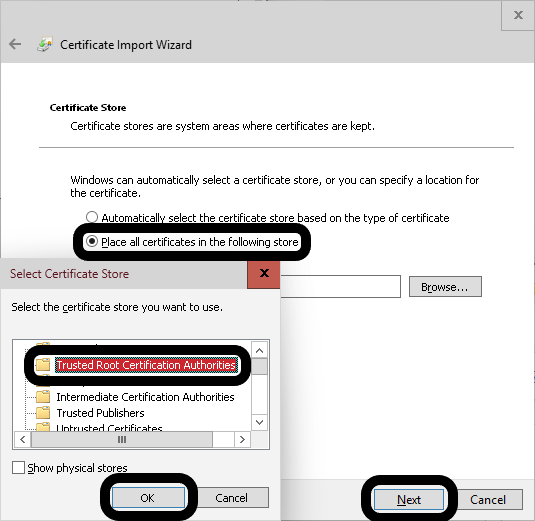
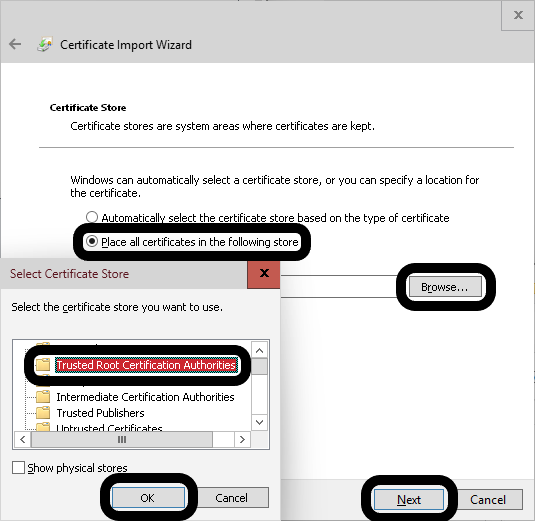
Update README.md.

Changed region(s): [[0.7178, 0.4914, 0.9271, 0.6142]]

diff --git a/README.md b/README.md
@@ -7,21 +7,19 @@
  <span>FSE App Launcher for Windows</span>
 </h1>
 <p align="center">
- <span align="center">A launchpad designed for Xbox full screen experience (FSE) in Windows 11. Resurrect the acclaimed tablet mode.</span>
+ <span align="center">Resurrect the acclaimed tablet mode in Windows 11—a launchpad designed for Xbox full screen experience (FSE).</span>
 </p>
+
 
 
 
 ## Highlights
 
-- Supports **setting it as home app** on devices compatible with the **FSE[^1]** feature (see "[System Requirements](#System Requirements)").
-- Launch **any** app (including non-game apps) **under FSE[^1]**, eliminating the need to switch back and forth between FSE[^1] and desktop. **Brings the experience closer to tablet mode in Windows 10**.
-- Quick access to **popular gaming platforms and missing desktop features[^2]**.
+- Inspired by the deprecated **tablet mode**. Supports **setting it as home app** on devices compatible with **Xbox FSE[^1]** (see "[System Requirements](#system-requirements)").
+- Launch **any** installed app, **not just games**. Eliminate the need to switch back and forth between Xbox FSE[^1] and desktop.
+- Quick access to **popular gaming platforms**[^2] and **missing desktop features**. You no longer have to switch to desktop just to **shut down** your device. (Remember the Windows 8 fiasco?)
 - **Native context menu** with suppport for "Run as administrator", "Open new window", "Open file location", "Uninstall", etc. A substitute to the all apps list of Start Menu.
-- Fix a major design flaw dating back to Windows 8 - **it has a power button!** But the Xbox app does not have that ;D
 - Native support for touch screen, high DPI, dark mode, and Mica.
-
-<a id="System Requirements"></a>
 
 ## System Requirements
 
@@ -29,12 +27,12 @@
 
 - Windows 11, version 21H2+
 
-#### Other requirements (if you intend to set it as home app of FSE[^1])
+#### Other requirements (if you intend to set it as home app of FSE)
+
+ℹ Only Full Edition supports setting as home app of FSE.
 
 - Windows 11, version 25H2+
 - The device is a gaming handheld
-
-Portable Edition does not support setting as home app of FSE[^1].
 
 ## Screenshots
 
@@ -43,12 +41,21 @@ Portable Edition does not support setting as home app of FSE[^1].
   <img src="./doc/images/readme/Screenshot_OpenSource.png" />
  </picture>
 </p>
-
 ## Installation and Configuration
+
+There are two editions of App Launcher: Full Edition and Portable Edition. Only Full Edition supports setting as home app of FSE.
 
 ### Full Edition
 
-#### 1. Download package from Github
+#### 1. Enable Developer Mode
+
+- Enable Developer Mode on the System › Advanced page in Settings.
+<p align="center">
+ <picture>
+  <img src="./doc/images/readme/EnableDeveloperMode_OpenSource.png" />
+ </picture>
+</p>
+#### 2. Download the package
 
 - Go to the [Releases](https://github.com/La-La-Chicken/FSEAppLauncher/releases/latest) page, download the archive of Full Edition below the Assets section.
 <p align="center">
@@ -59,9 +66,9 @@ Portable Edition does not support setting as home app of FSE[^1].
 
 - Extract the archive to any directory of your choice.
 
-#### 2. Install the developer certificate
+#### 3. Install the developer certificate
 
-- Right-click (or press and hold on) the security certificate file (*.cer), then select "Install Certificate".
+- Right-click (or press and hold on) the security certificate file (*.cer), then select "<u>I</u>nstall Certificate".
 <p align="center">
  <picture>
   <img src="./doc/images/readme/InstallCertificate_OpenSource_1.png" />
@@ -76,7 +83,8 @@ Portable Edition does not support setting as home app of FSE[^1].
 </p>
 
 - If the User Account Control dialog appears, click "Yes" to approve the request.
-- Select "<u>P</u>lace all certificates in the following store", and click "B<u>r</u>owse...". Select "Trusted Root Certification Authorities", click "OK", then click "<u>N</u>ext".
+- Select "<u>P</u>lace all certificates in the following store", and click "B<u>r</u>owse...".
+- Select "Trusted Root Certification Authorities", click "OK", then click "<u>N</u>ext".
 <p align="center">
  <picture>
   <img src="./doc/images/readme/InstallCertificate_OpenSource_3.png" />
@@ -90,34 +98,25 @@ Portable Edition does not support setting as home app of FSE[^1].
  </picture>
 </p>
 
-#### 3. Install the dependency
+#### 4. Install the dependency
 
 - Open the dependency "Microsoft.VCLibs.x64.14.00.Desktop.appx" and then click "Install".
 
-  ℹ If the installation fails and prompts "There's a newer version of this package already installed. To install this older package instead, uninstall the one currently on your system (0x80073D06)", it indicates that the dependency is **already installed**, and **you can directly install the application**.
+  ℹ If the installation fails and prompts "There's a newer version of this package already installed. To install this older package instead, uninstall the one currently on your system (0x80073D06)", it indicates that the dependency **has already been installed**, and **you can directly [install App Launcher](#5-install-app-launcher)**.
 <p align="center">
  <picture>
   <img src="./doc/images/readme/InstallDependency.AlreadyInstalled_OpenSource.png" />
  </picture>
 </p>
+#### 5. Install App Launcher
 
-#### 4. Enable Developer Mode
-
-- Enable Developer Mode in System Settings on the System → Advanced page.
-<p align="center">
- <picture>
-  <img src="./doc/images/readme/EnableDeveloperMode_OpenSource.png" />
- </picture>
-</p>
-
-#### 5. Install the application
-- Install the application by opening the MSIX package (FSEAppLauncher.FullEdition ... .msix) and then click "Install".
+- Open the MSIX package (FSEAppLauncher.FullEdition ... .msix) and then click "Install".
 
 #### 6. Configure the application as the home app[^3]
 
 - Open System Settings, click "Gaming", then click "Full screen experience".
 - Beside "Choose home app", select "App Launcher for Windows", and enable "Enter full screen experience on startup".
-- Optionally enable "Show accessibility control hints in Task View" based on your needs.
+ℹ It is also recommended to enable "Show accessibility control hints in Task View" to enhance the experience of game controllers.
 <p align="center">
  <picture>
   <img src="./doc/images/readme/ConfigureFSE_OpenSource.png" />
@@ -126,26 +125,25 @@ Portable Edition does not support setting as home app of FSE[^1].
 
 ### Portable Edition
 
+ℹ Portable Edition does not support setting as home app of FSE.
+
 - Go to the [Releases](https://github.com/La-La-Chicken/FSEAppLauncher/releases/latest) page, download Portable Edition (FSEAppLauncher.PortableEdition ... .exe) below the Assets section.
-- You can directly run the application without installation and configuration.
-
-Portable Edition does not support setting as home app of FSE[^1].
-
 <p align="center">
  <picture>
   <img src="./doc/images/readme/DownloadPortableEdition_OpenSource.png" />
  </picture>
 </p>
 
+- You can directly run the application without installation and configuration.
+
 ## What's new
 
 #### Current - Version 26.32.14370.0
 
-- Added the unpackaged Portable Edition (does not support setting as home app of FSE).
+- Added the unpackaged Portable Edition (without FSE home app support).
 - Added more buttons for quick access to popular game platforms and desktop features.
 - Replaced the Command Palette button with the Search button to provide a consistent experience with the desktop environment. On eligible devices, it launches Copilot or a user-specified AI app.
-- The App Launcher UI is no longer forced to be maximized, no longer topmost, and no longer minimized when losing focus.
-- Added touch-friendly resizing borders for non-maximized windows.
+- The App Launcher UI is no longer forced to be maximized, no longer topmost, and no longer minimized when losing focus. Added touch-friendly resizing borders for non-maximized windows.
 - Added an About box.
 - Added backward compatibility for Windows 11, version 21H2.
 
@@ -161,7 +159,7 @@ Use the toolchain to develop this project:
 		- Windows 10 SDK (10.0.19041)
 		- C++ MFC development tools
 
-Windows 11, version 21H2+ is required to run or debug the application.
+Windows 11, version 21H2+ is required to debug or run the application.
 
 ## Contributing
 
@@ -181,6 +179,6 @@ This means unlicensed works, modifications, and larger works may be distributed 
 
 
 
-[^1]:Also known as "Xbox Handheld Mode".
-[^2]:The "Xbox" feature requires the latest version of [Game Bar](https://apps.microsoft.com/detail/9NZKPSTSNW4P), [Xbox app](https://apps.microsoft.com/detail/9MV0B5HZVK9Z) and [Gaming Services](https://apps.microsoft.com/detail/9MWPM2CQNLHN). The "Steam Big Picture Mode" feature requires the latest version of [Steam](https://store.steampowered.com/about/). The "EA" feature requires the latest version of [EA app](https://www.ea.com/ea-app#downloads). The "Epic Games Launcher" feature requires the latest version of [Epic Games Launcher](https://apps.microsoft.com/detail/XP99VR1BPSBQJ2). The "GOG Galaxy" feature requires the latest version of [GOG Galaxy](https://apps.microsoft.com/detail/XPFFXW40W60KCF). The "Microsoft Store" feature requires the latest version of [Microsoft Store](https://apps.microsoft.com/detail/9WZDNCRFJBMP).
+[^1]:Also known as "Xbox full screen mode" or "Handheld Mode".
+[^2]:The "Xbox" feature requires the latest version of [Game Bar](https://apps.microsoft.com/detail/9NZKPSTSNW4P), [Xbox app](https://apps.microsoft.com/detail/9MV0B5HZVK9Z) and [Gaming Services](https://apps.microsoft.com/detail/9MWPM2CQNLHN). The "Steam Big Picture Mode" feature requires the latest version of [Steam](https://store.steampowered.com/about/). The "EA" feature requires the latest version of [EA app](https://www.ea.com/ea-app#downloads). The "Epic Games Launcher" feature requires the latest version of [Epic Games Store](https://apps.microsoft.com/detail/XP99VR1BPSBQJ2). The "GOG Galaxy" feature requires the latest version of [GOG Galaxy](https://apps.microsoft.com/detail/XPFFXW40W60KCF). The "Microsoft Store" feature requires the latest version of [Microsoft Store](https://apps.microsoft.com/detail/9WZDNCRFJBMP).
 [^3]:If your operating system version is lower than Windows 11, version 25H2, or your device is not a gaming handheld, you may not see "Full screen experience", and some options may not appear.
